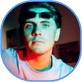
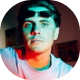
fixed some sizes and spaces

diff --git a/styles.css b/styles.css
@@ -44,16 +44,15 @@ img {
     --background-color: rgba(30, 50, 100, 0.72);
     ;
     --notification-bgr-color:  #18274C;
-    --accent-color: #509BF5;
+    --accent-color: rgba(80, 155, 245, 1);;
+    --border-avatar-color: #1E3264;
 
     --btn-font-color: #fff;
     --stroke-color: rgba(255, 255, 255, 1);
     --stroke-hover-color: rgba(255, 253, 254, 0.56);
     --fill-color: rgba(255, 255, 255, 1);
     --fill-hover-color: rgba(255, 6, 154);
-    --btn-primary-color: rgba(80, 155, 245, 1);
-    --counter-color: rgba(240, 55, 165, 1);
-    --accent-btn-primary-color:  rgba(240, 55, 165, 1);
+    --active-color: rgba(240, 55, 165, 1);
     --hover-icon-shadow: drop-shadow(0 0 8px rgba(255, 6, 154));
     --btn-cecondary-color: #FF6437;
     --drop-shadow-primary-btn: drop-shadow(0px 1px 1px 0px rgba(17, 94, 187, 0.32));
@@ -77,21 +76,22 @@ font-size: 15px;
     align-items: center;
     backdrop-filter: blur(16px);
     border-radius: 24px;
-    width: 735px;
+    min-width: 709px;
+    max-width: 780px;
     position: absolute;
     top: 100%;
     left: 50%;
 
     transform: translate(-50%, -50%);
-    padding-top: 9px;
-    padding-bottom: 10px;
+    padding-top: 5px;
+    padding-bottom: 5px;
 }
 
 .options {
     display: flex;
     justify-content: space-around;
     align-items: center;
-    width: calc((100% - 30px)/ 3);
+    width: calc((100%)/ 2.5);
     padding-right: 10px;
 }
 
@@ -99,40 +99,42 @@ font-size: 15px;
     display: flex;
     justify-content: space-around;
     align-items: center;
-    width: calc((100%) / 5);
+    width: calc((100%) / 4);
     border-left: 1px solid #8095C9;
     /* transform: rotate(90deg); */
     padding-left: 7px;
 }
 
 .notification-container {
-    padding: 9px;
+    padding: 2px;
     padding-left: 10px;
     color: white;
     text-align: center;
 
-    /* width: calc((100% - 20px) / 2); */
-    /* display: flex;
-    justify-content: space-evenly;
-    flex-direction: row; */
+    width: calc((100%) / 2);
 }
 
-.notification-bgr {
+.notification__status {
     background-color: var(--notification-bgr-color);
     border-radius: 16px;
+    padding: 16px;
+    padding-left: 80px;
+    font-size: 15px;
+    line-height: 1.1;
+    text-align: start;
 }
 
 .avatar-icon {
     background-image: url(./images/avatar.png);
     border: 2px solid var(--accent-color);
     border-radius: 36px;
-    /* border: 1.6px solid #F037A5; */
     position: absolute;
-    left: -20px;
-    top: -10;
+    left: -12px;
+    /* top: -10px; */
     z-index: 2;
     width: 83px;
     height: 83px;
+    box-shadow: 0px 0px 2px rgba(92, 41, 66, 0.56), 0px 0px 8px rgba(80, 155, 245, 0.51);
 }
 
 .icon {
@@ -168,8 +170,14 @@ font-size: 15px;
     margin: -1px;
 }
 
-.btn-container {
-    margin-left: 55px;
+.notification__btn-container {
+    margin-left: 65px;
+    padding-right: 5px;
+    min-width: 180px;
+
+    display: flex;
+    justify-content: space-evenly;
+    flex-direction: row;
 }
 
 .btn {
@@ -189,19 +197,20 @@ button + button {
 }
 
 .primary-btn {
-    background-color: var(--btn-primary-color);
-    min-width: 165px;
+    background-color: var(--accent-color);
+    min-width: 164px;
     filter: var(--drop-shadow-primary-btn);
 }
 
 .primary-btn:hover {
     filter: var(--drop-shadow-active-primary-btn-active);
-    background-color: var(--accent-btn-primary-color);
+    background-color: var(--active-color);
 }
 
 .secondary-btn {
     background-color: var(--btn-cecondary-color);
     filter: var(--drop-shadow-second-btn);
+    min-width: 100px;
 }
 
 .got-container__mail {
@@ -213,7 +222,7 @@ button + button {
 }
 
 .counter {
-    background-color: var(--counter-color);
+    background-color: var(--active-color);
     color: var(--btn-font-color);
     font-family: var(--font-counter);
     font-size: 9px;
@@ -230,8 +239,8 @@ button + button {
 
     position: absolute;
     z-index: 2;
-    right: -30%;
-    top: -25%;
+    right: -35%;
+    top: -30%;
 
 }
 

diff --git a/index.html b/index.html
@@ -13,15 +13,15 @@
 <div class="container">
     <div class='avatar-icon'></div>
     <div class="notification-container">
-        <div class="btn-container">
+        <div class="notification__btn-container">
             <button class="btn secondary-btn">
                 <span>Scan QR</span>
             </button>
             <button class='btn primary-btn'>
-                <span>Join the game</span>
+                <span>Leave the group</span>
             </button>
         </div>
-        <span class="status is-hidden">Sit at the table</span>
+        <div class="notification__status is-hidden"><span class="">Sit at the table</span></div>
     </div>
 
     <div class="options">
